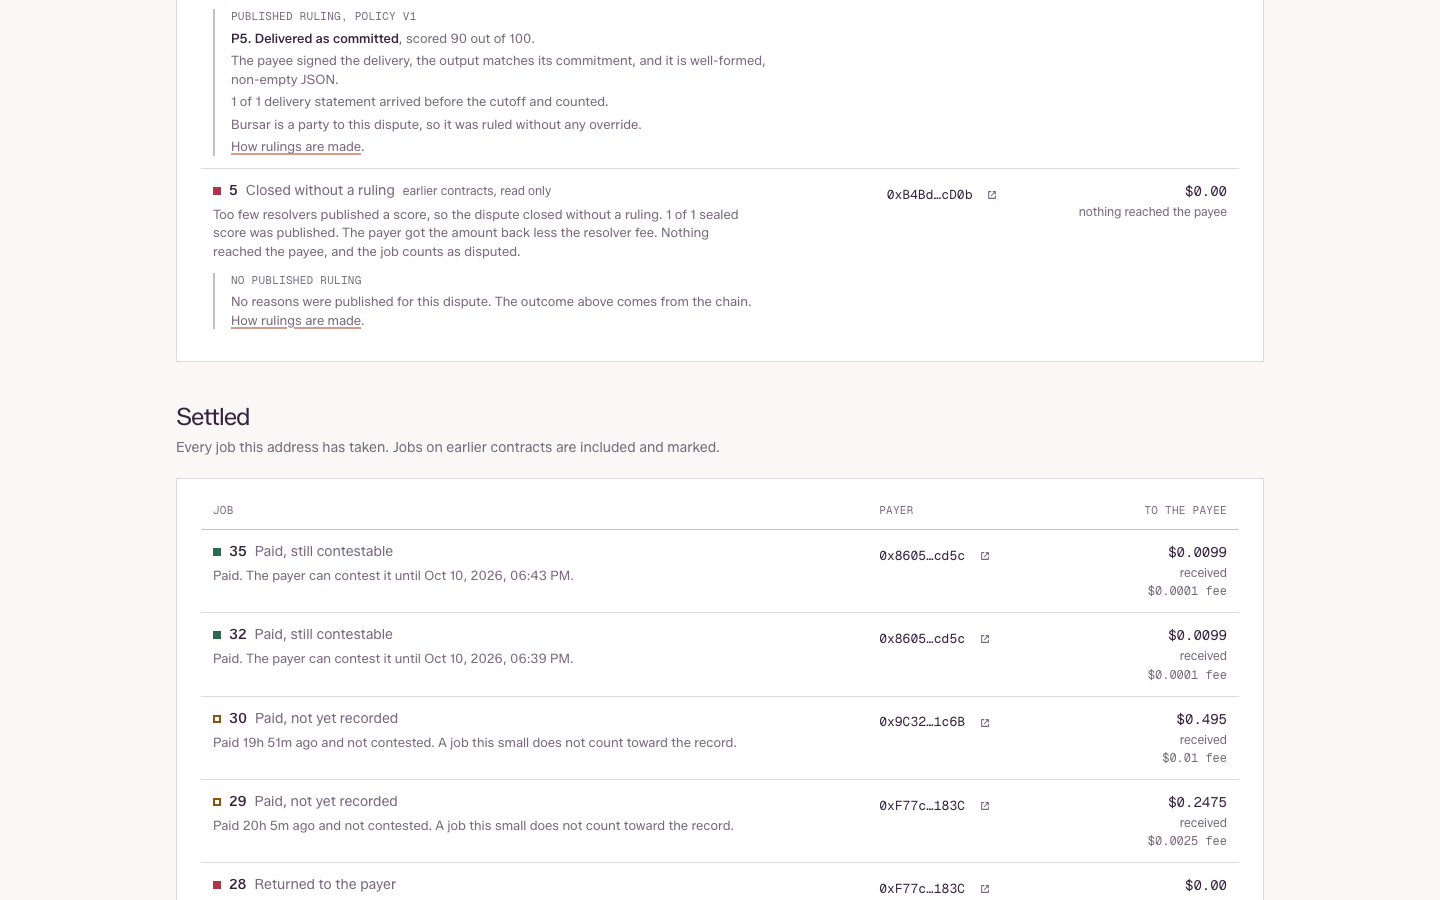
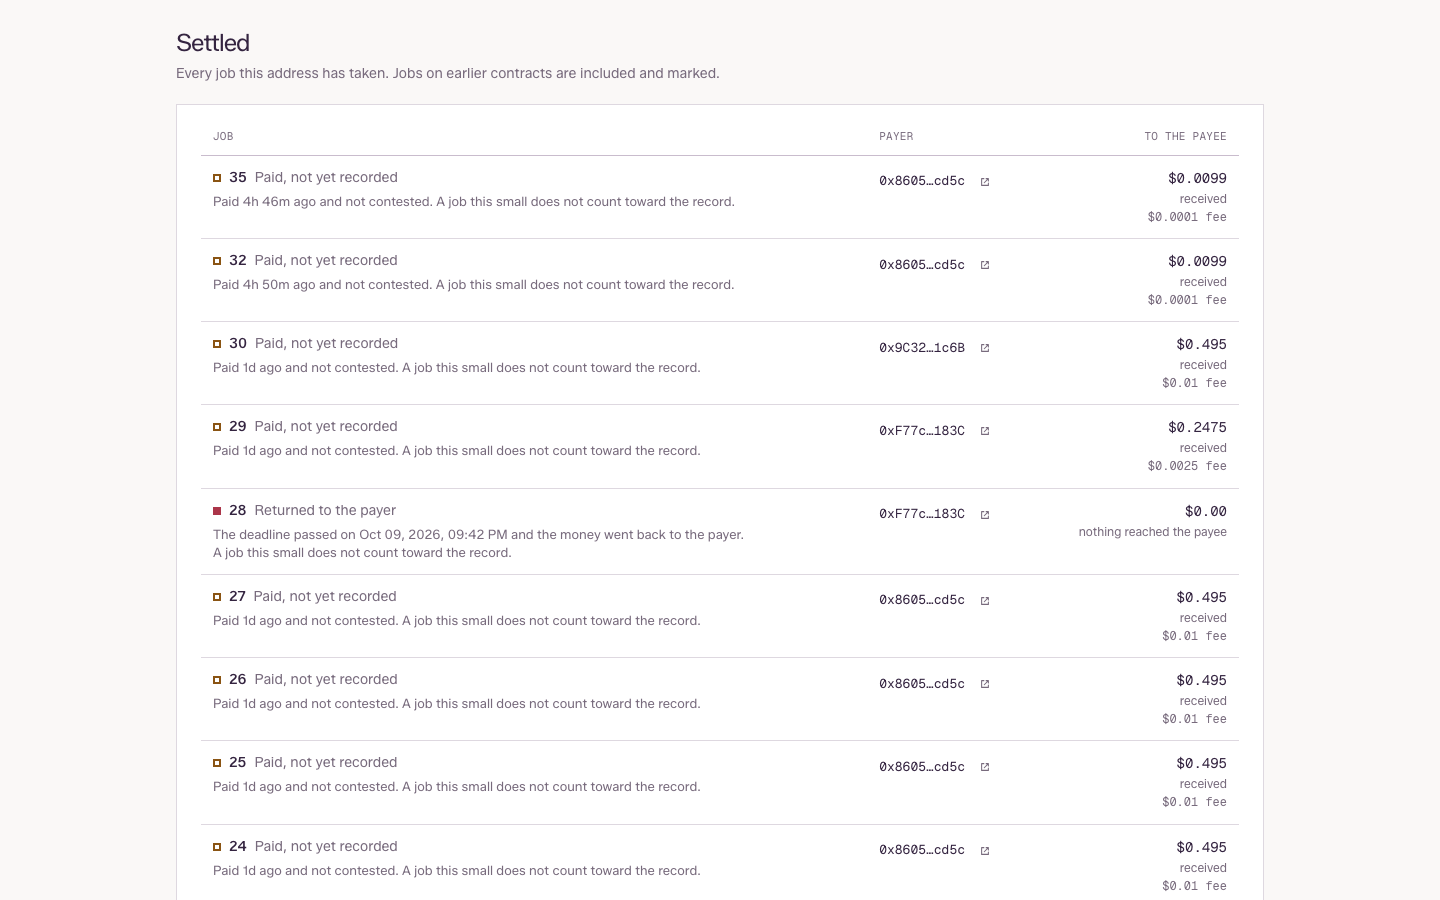
cloudflare provider: open the desk screenshot on the settled table, and drop the contest-window claim once it has passed

diff --git a/docs/bullish/cloudflare-provider.md b/docs/bullish/cloudflare-provider.md
@@ -65,8 +65,7 @@ The provider received 0.0099 USDG per call after the escrow's fee. Spend for the
 about 0.00003 ETH in fees, inside the limits.
 
 Both locks show on the public desk at
-<https://app.bursar.world/providers/0x5210D8df060A9D5ce4c1305045ED5c9548fca374> as paid and still
-contestable.
+<https://app.bursar.world/providers/0x5210D8df060A9D5ce4c1305045ED5c9548fca374> as paid.
 
 ### Running it
 
